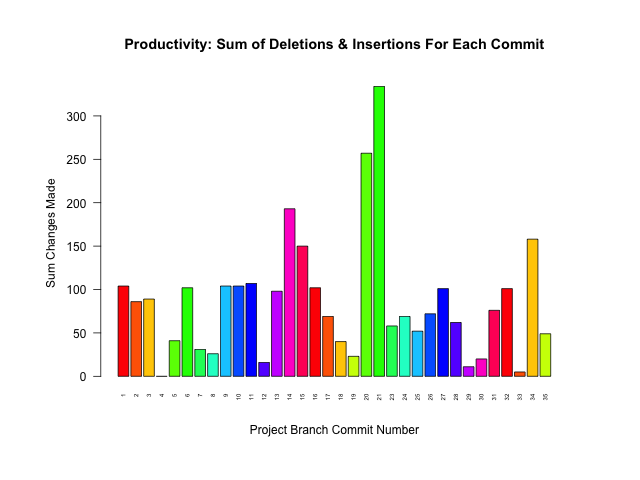
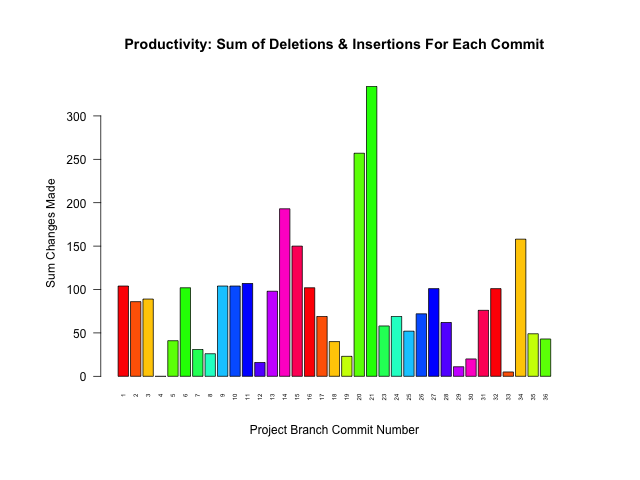
COMMIT #286

Changed region(s): [[0.1875, 0.1562, 0.875, 0.7812], [0.3438, 0.8125, 0.8438, 0.8438]]

diff --git a/README.md b/README.md
@@ -17,8 +17,8 @@ ProjectName::BranchName.data
 
 Project Name | Last Updated | # Commits | # Branches | Branches Merged
 :---|:---:|:---:|:---:|:---:
-[Algorithms_practice](https://github.com/pierremigeon/Algorithms_practice)                          |  2023-08-10  |  35   |  10  |  80%   (8/10)
-[commit_tracker](https://github.com/pierremigeon/commit_tracker)                                    |  2023-08-09  |  284  |  1   |  100%  (1/1)
+[Algorithms_practice](https://github.com/pierremigeon/Algorithms_practice)                          |  2023-08-11  |  36   |  10  |  80%   (8/10)
+[commit_tracker](https://github.com/pierremigeon/commit_tracker)                                    |  2023-08-10  |  285  |  1   |  100%  (1/1)
 [FASTQ_examiner](https://github.com/pierremigeon/FASTQ_examiner)                                    |  2023-07-28  |  80   |  4   |  75%   (3/4)
 [learn_some_C.Plus.Plus](https://github.com/pierremigeon/learn_some_C.Plus.Plus)                    |  2023-07-17  |  79   |  2   |  50%   (1/2)
 [libft](https://github.com/pierremigeon/libft)                                                      |  2023-06-05  |  30   |  2   |  50%   (1/2)
